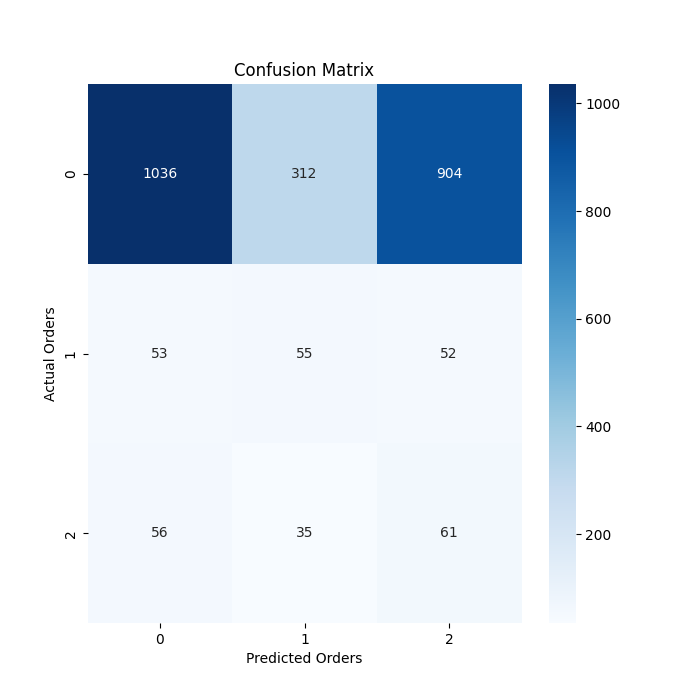
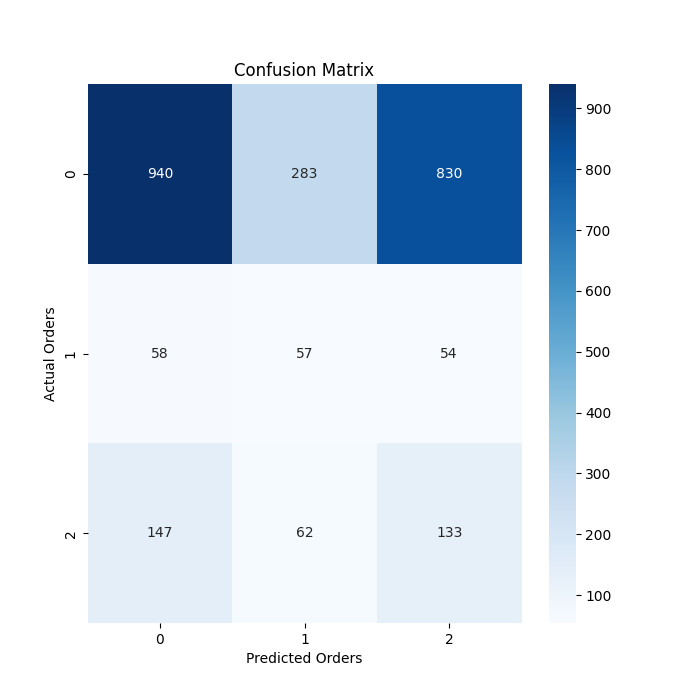
Refactor investment simulation code for improved readability and clarity

diff --git a/models/evaluate.py b/models/evaluate.py
@@ -57,7 +57,7 @@ def plot_confusion_matrix(predicted_orders, best_orders):
     plt.title('Confusion Matrix')
     plt.savefig('logs/confusion_matrix.png')
 
-def simulate_investment(model, dataloader, capital, shares_owned, scaler, buy_threshold, sell_threshold, test_df, backcandles, train_cols):
+def simulate_investment(model, dataloader, capital, shares_owned, scaler, buy_threshold, sell_threshold, test_df, backcandles, train_cols, trade_allocation = 0.1):
     model.eval()
 
     predicted_orders = []
@@ -88,21 +88,27 @@ def simulate_investment(model, dataloader, capital, shares_owned, scaler, buy_th
         true_best_order = targets.numpy().flatten().argmax()
 
         # Simulate investment based on model prediction
-        if order_prediction == 0 and capital >= current_price:
-            # Buy all the shares you can
-            nb_share_affordable = int(capital // current_price)
-            shares_owned += nb_share_affordable
-            capital -= nb_share_affordable * current_price * 1.01  # Add 1% commission
-            buy_sell_annotations.append(['Buy', current_price, timestamps[-1]])
-            print(f"Bought {nb_share_affordable} share at {current_price:.2f}, Capital: {capital:.2f}, Shares Owned: {shares_owned}, On :{timestamps[-1]}")
+        if order_prediction == 0 and capital >= current_price :
+            # Calculate position size based on trade allocation
+            investment_amount = capital * trade_allocation
+            nb_share_affordable = int(investment_amount // current_price)
+            if nb_share_affordable > 0:
+                shares_owned += nb_share_affordable
+                total_cost = nb_share_affordable * current_price * 1.01
+                capital -= total_cost
+                position_entry_price = current_price
+                buy_sell_annotations.append(['Buy', current_price, timestamps[-1]])
+                print(f"Bought {nb_share_affordable} shares at {current_price:.2f}, Capital: {capital:.2f}, Shares Owned: {shares_owned}, On: {timestamps[-1]}")
 
         elif order_prediction == 2 and shares_owned > 0:
-            # Sell all the shares you have
-            capital += current_price * shares_owned * 0.99  # Subtract 1% commission
-            shares_owned_temp = shares_owned
+            # Sell all shares
+            total_revenue = shares_owned * current_price * 0.99
+            capital += total_revenue
+            shares_sold = shares_owned
             shares_owned = 0
+            position_entry_price = None
             buy_sell_annotations.append(['Sell', current_price, timestamps[-1]])
-            print(f"Sold {shares_owned_temp} share at {current_price:.2f}, Capital: {capital:.2f}, Shares Owned: {shares_owned}, On :{timestamps[-1]}")
+            print(f"Sold {shares_sold} shares at {current_price:.2f}, Capital: {capital:.2f}, Shares Owned: {shares_owned}, On: {timestamps[-1]}")
 
         # Calculate portfolio value after each decision
         portfolio_value = capital + shares_owned * current_price

diff --git a/main.py b/main.py
@@ -46,9 +46,9 @@ if __name__ == "__main__":
 
     # Initialize model, optimizer, and scheduler
     lstm_model = LSTMModel(embedding_dim=len(train_cols), 
-                           hidden_dim = 64,
-                           num_layers = 3, 
-                           dropout_prob = 0.4)
+                           hidden_dim = 128,
+                           num_layers = 2, 
+                           dropout_prob = 0.2)
     
     optimizer = Adam(lstm_model.parameters(), lr=0.001, weight_decay=1e-5)
     scheduler = lr_scheduler.StepLR(optimizer, step_size=7, gamma=0.1)

diff --git a/data/data_preloading.py b/data/data_preloading.py
@@ -1,0 +1,22 @@
+from data.data_utils import prepare_data
+import alpaca_trade_api.rest as rest
+
+
+symbol = 'AAPL'
+start_date = '2015-01-01'
+end_date = '2021-12-31'
+timeframe = rest.TimeFrame(1, rest.TimeFrameUnit.Hour)
+is_filter = False,
+limit = 365 * 24 * 4
+is_training = True
+backcandles = 60
+
+df, dataset_scaled, train_sc, train_cols = prepare_data(
+    symbol=symbol, 
+    start_date=start_date, 
+    end_date=end_date,
+    timeframe=timeframe, 
+    is_filter=is_filter, 
+    limit= limit, 
+    is_training=is_training,
+    backcandles=backcandles)

diff --git a/data/data_utils.py b/data/data_utils.py
@@ -102,7 +102,7 @@ def training_loaders(dataset_scaled, backcandles, train_cols, buy_threshold, sel
     valid_dataset = TensorDataset(torch.tensor(X[train_size:], dtype=torch.float32), torch.tensor(y[train_size:], dtype=torch.float32))
 
     train_loader = DataLoader(train_dataset, batch_size=64, shuffle=True)
-    valid_loader = DataLoader(valid_dataset, batch_size=64, shuffle=True)
+    valid_loader = DataLoader(valid_dataset, batch_size=64, shuffle=False)
 
     return train_loader, valid_loader
 

diff --git a/config.py b/config.py
@@ -12,7 +12,7 @@ class Config:
         self.end_date = (self.start_date_dt + timedelta(days= 4 * 365)).strftime('%Y-%m-%d')
         self.test_start_date = '2024-01-01'
         self.test_end_date = '2024-09-01'
-        self.initial_capital = 1000
+        self.initial_capital = 10000
         self.shares_owned = 0
         self.num_epochs = 20
         self.buy_threshold = 0.02
